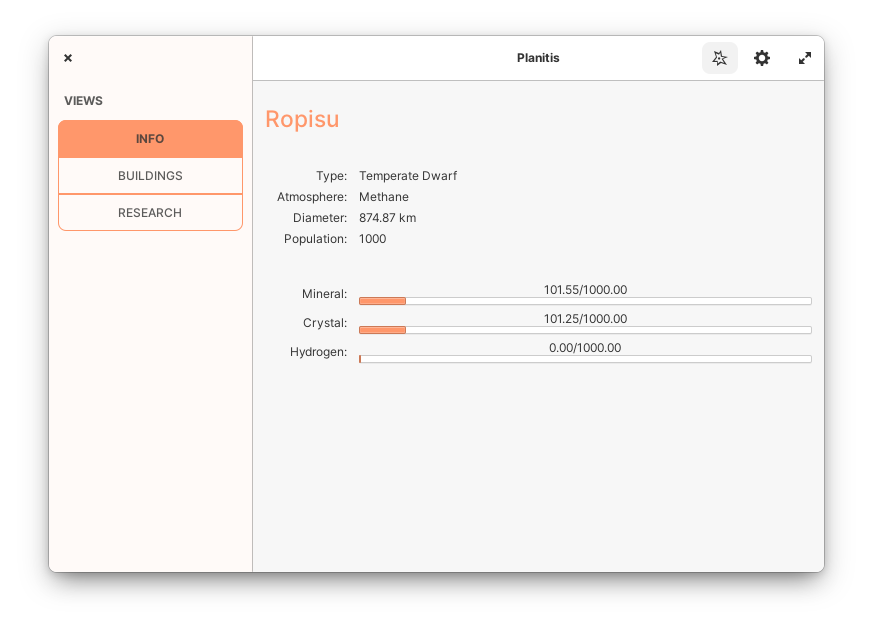
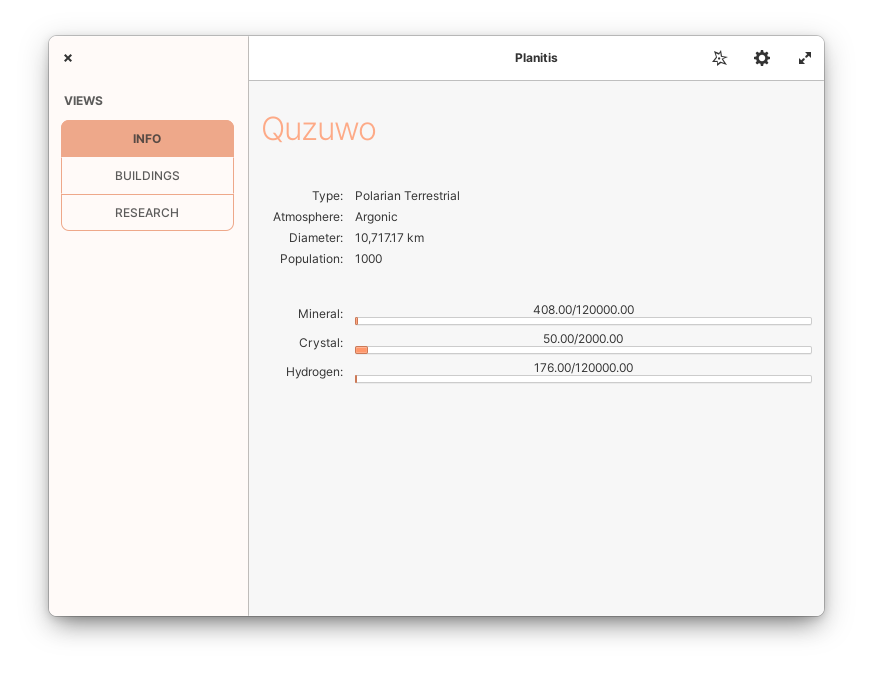
upd

diff --git a/data/app.css b/data/app.css
@@ -70,7 +70,7 @@ progressbar .left {
     background: mix(@accent, @base_color, 0.95);
 }
 .pl-switcher button:first-child {
-    border-bottom: 1px solid transparent;
+    border-bottom: 1px solid shade (mix (@accent, @base_color, 0.95), 0.75);
 }
 .pl-switcher button:not(:first-child):not(:last-child) {
     box-shadow: none;
@@ -82,7 +82,7 @@ progressbar .left {
     box-shadow: none;
     background-image: none;
     border-radius: 0 0 8px 8px;
-    border-top: 1px solid transparent;
+    border-top: 1px solid shade (mix (@accent, @base_color, 0.95), 0.75);
 }
 .pl-switcher button label {
     font-weight: 700;
@@ -97,12 +97,13 @@ progressbar .left {
     padding-top: 0.5em;
 }
 .pl-switcher button:not(:checked):not(:active) {
-    border: 1px solid @accent;
+    border-left: 1px solid shade (mix (@accent, @base_color, 0.95), 0.75);
+    border-right: 1px solid shade (mix (@accent, @base_color, 0.95), 0.75);
     background: none;
 }
 .pl-switcher button {
-    background: @accent;
-    border: 1px solid @accent;
+    background: shade (mix (@accent, @base_color, 0.95), 0.75);
+    border: 1px solid shade (mix (@accent, @base_color, 0.95), 0.75);
 }
 .pl-column {
     background: mix (@accent, @base_color, 0.95);
